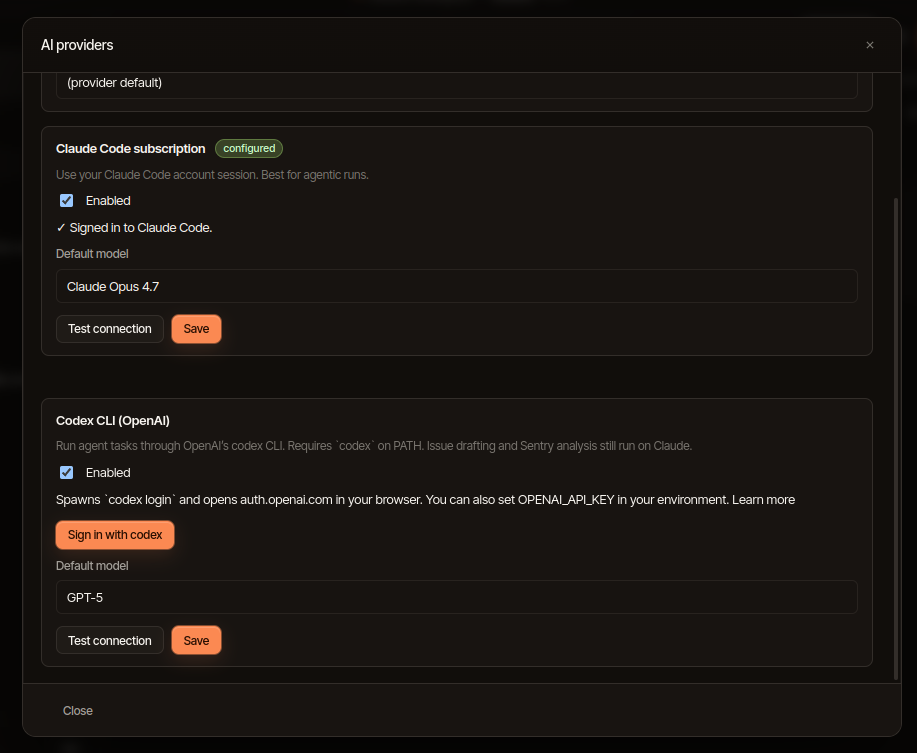
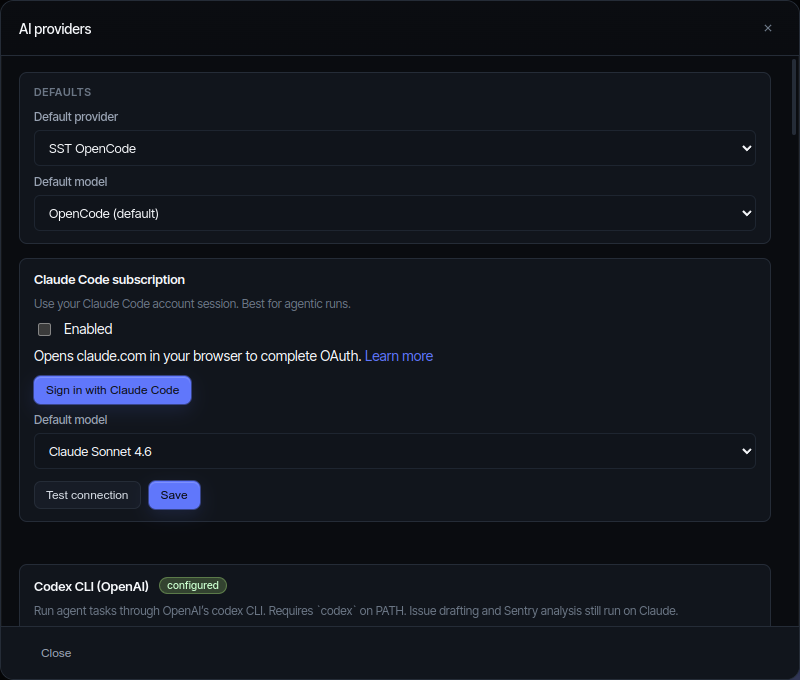
docs: refresh readme and recapture screenshots for the kodra ui
- recommend kodra-mcp-server (kanbots-mcp-server as legacy alias)
- rewrite the packaged-builds section for the tag-driven release
  pipeline and in-app auto-update
- add session-resume and auto-update highlights; link docs/releasing.md
- recapture board/task-detail/autopilot/new-task/chat/providers
  screenshots from a live build via CDP; new task-detail-overview
  replaces the unreproducible awaiting-decision shot in the readme
- update rebranding notes: remaining old-ui screenshots and their
  reasons

diff --git a/README.md b/README.md
@@ -34,6 +34,10 @@ parallel slots, and check their own work while you sleep.
 - **Live checks & fork runs** — check badges update on cards in real
   time while runs execute, and a follow-up run can fork into an
   existing worktree to iterate on its state.
+- **Session resume** — every run surfaces its agent session id and a
+  ready-to-paste terminal resume command in the task detail modal.
+- **Auto-update** — packaged builds update themselves in-app; releases
+  are cut by a tag-driven multi-OS pipeline.
 - **Subscription awareness** — plan usage for Claude, Codex,
   Antigravity and Copilot is surfaced in the UI, so you can spread
   work across the plans you already pay for.
@@ -43,9 +47,9 @@ parallel slots, and check their own work while you sleep.
   draft PR (GitHub mode).
 - **Sentry import** — auto-pull error groups onto the board for
   triage; one click hands the issue to an agent.
-- **MCP server** — `kanbots-mcp-server` exposes the board over Model
+- **MCP server** — `kodra-mcp-server` exposes the board over Model
   Context Protocol so Cursor, Claude Desktop, or anything MCP-aware
-  can drive it.
+  can drive it (`kanbots-mcp-server` remains as a legacy alias).
 
 ## Supported agents
 
@@ -134,9 +138,14 @@ into `/Applications`, then run
 **Windows** — `.exe` installer. SmartScreen warns on first launch —
 *More info → Run anyway*. Like macOS, the build is unsigned.
 
-### Planned Kodra packaged builds
+### Kodra packaged builds
 
-Packaged fork builds are not yet available. They will land on the
+Packaged builds are cut by a tag-driven pipeline: the `release-cut`
+workflow bumps the version and pushes a `v*` tag, and `release-build`
+builds macOS (dmg/zip, arm64 + x64), Linux (AppImage/tar.xz) and
+Windows (NSIS installer) in parallel and publishes the GitHub release.
+Packaged installs self-update from those releases. The first release
+has not been cut yet — when it lands, binaries appear on the
 [fork releases page](https://github.com/vitorvaf/kodra/releases).
 
 ### First run
@@ -196,12 +205,11 @@ See [docs/issues.md](docs/issues.md) for auth setup and the
 A pre-push hook is installed in every worktree so agents can't push
 to remote on their own. Promotion is always an explicit user step.
 
-![Run detail with awaiting-decision prompt](docs/assets/run-detail-awaiting-decision.png)
+![Task detail modal](docs/assets/task-detail-overview.png)
 
-*Issue detail: live agent thread, decision prompt with numbered
-options, run stats (model, elapsed, tokens, cost), check buttons,
-worktree/branch info, and a Reply box that accepts slash commands
-(`/spec`, `/review`, `/split`).*
+*Issue detail: description, Thread/Diff/Preview/Runs tabs, branch
+info, and the agent-session block with a ready-to-paste terminal
+resume command.*
 
 Details: [docs/agents.md](docs/agents.md).
 
@@ -234,11 +242,12 @@ Details: [docs/agents.md#autopilot](docs/agents.md#autopilot).
 | [Agents](docs/agents.md) | All 12 agent CLI runs, decision prompts, containment, costs, autopilot, personas |
 | [Providers](docs/providers.md) | AI providers modal — picking the agent CLI, API key storage |
 | [Issues](docs/issues.md) | Local mode, GitHub mode, auth, Sentry import |
-| [MCP server](docs/mcp-server.md) | Wiring `kanbots-mcp-server` into Cursor or Claude Desktop |
-| [Configuration](docs/configuration.md) | `.kanbots/config.json`, env vars, check command overrides |
+| [MCP server](docs/mcp-server.md) | Wiring `kodra-mcp-server` into Cursor or Claude Desktop |
+| [Configuration](docs/configuration.md) | `.kodra/config.json`, env vars, check command overrides |
 | [Architecture](docs/architecture.md) | Packages, IPC bridge, database, dependency graph |
 | [Architecture decisions](docs/adr/README.md) | ADRs — agent memory integration, RTK output compression |
 | [Rebranding notes](docs/rebranding.md) | Compatibility identifiers and migration debt |
+| [Releasing](docs/releasing.md) | Cutting releases — version bump, tags, multi-OS builds, auto-update |
 
 ## Packages
 

diff --git a/docs/rebranding.md b/docs/rebranding.md
@@ -70,12 +70,14 @@ workspaces, integrations, or package consumers.
 
 ## Migration debt
 
-- Screenshots in `docs/assets/` have not yet been recaptured; some still show
-  the old Kanbots UI. Automated recapture was ruled out (native workspace
-  picker dialog, per-user data in real boards). To recapture manually: run
-  `pnpm desktop`, open the target workspace, frame approximately the same
-  crops (board-overview is 1200x796; the others are 765-1128px wide) and
-  overwrite the PNGs in `docs/assets/`.
+- Most screenshots in `docs/assets/` were recaptured on 2026-09-05 from a live
+  build (CDP-driven; `board-overview.png` is now 2040x1200 — the Kodra board
+  needs ~1800px of column width). Still showing the old Kanbots UI:
+  `run-detail-awaiting-decision.png` (a live awaiting-decision state could not
+  be reproduced; referenced by docs/agents.md and docs/getting-started.md) and
+  `persona-picker.png` (the Inbox suggest button that opens the persona picker
+  did not render in the capture workspace). To recapture manually: run
+  `pnpm desktop`, open a workspace, and overwrite the PNGs in `docs/assets/`.
 - The `kanbots` npm package remains upstream-owned. Kodra does not currently
   have a separate npm package or install URL. **TODO: decide whether to
   publish a Kodra package and document its name.**
